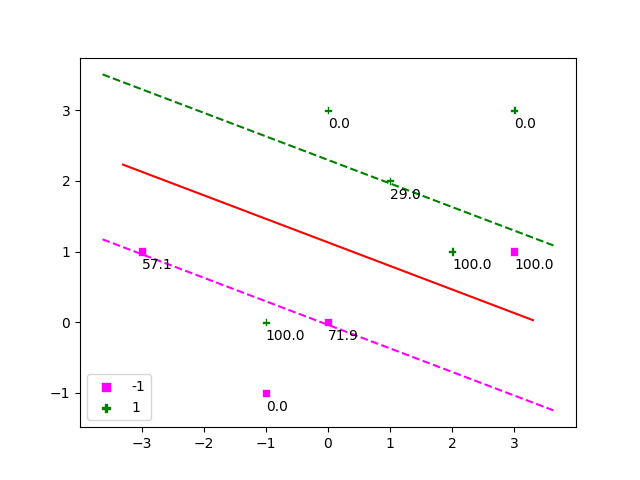
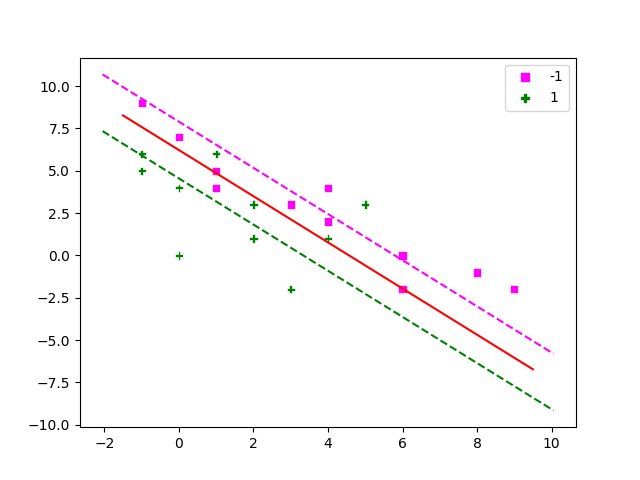
Added validation for linear svm

diff --git a/svm_from_scratch.py b/svm_from_scratch.py
@@ -138,15 +138,10 @@ class MySVM:
         N = len(labels)
         return (labels == predictions).sum() / N * 100
 
-    def plot_x(self, x, labels, C=0):
+    def plot_x(self, x, labels):
         sns.scatterplot(x[:, 0], x[:, 1], style=labels,
                         hue=labels, markers=['s', 'P'],
                         palette=['magenta', 'green'])
-        if len(self.alpha) > 0:
-            alpha_str = np.char.mod('%.1f', np.round(self.alpha, 1))
-            ind_sv = np.where(self.alpha > self.ZERO)[0]
-            for i in ind_sv:
-                plt.gca().text(x[i, 0], x[i, 1] - .25, alpha_str[i])
 
     def plot_hyperplane(self):
         w = self.w_opt
@@ -165,15 +160,40 @@ class MySVM:
         plt.plot(x_coord, yneg_coord, '--', color='magenta')
 
 
-data = np.array([[0, 3], [-1, 0], [1, 2], [2, 1], [3, 3], [0, 0], [-1, -1], [-3, 1], [3, 1]])
-labels = np.array([1, 1, 1, 1, 1, -1, -1, -1, -1])
-svm = MySVM()
-C=100
-svm.train(data, labels, C)
-predictions = svm.classify(data)
-print("Accuracy ",svm.accuracy(predictions, labels))
+data_train = np.array([[2, 1], [1, 4], [4, 1], [2, 3], [6, -2], [0, 0], [3, -2], [-1, 5], [-1, 6], [0, 4], [4, 2], [6, 0], [8, -1], [9, -2], [3, 3], [1, 5], [1, 6], [4, 4], [5, 3], [-1, 9], [0, 7]])
+labels_train = np.array([1, -1, 1, 1, -1, 1, 1, 1, 1, 1, -1, -1, -1, -1, -1, -1, 1, -1, 1, -1, -1])
 
-svm.plot_x(data, labels, C)
+data_val = np.array([[2, 4], [0, 5], [5, -1], [-1, 7], [-2, 9], [4, 0], [8, -2], [3, 5]])
+labels_val = np.array([-1, 1, 1, 1, -1, 1, -1, -1])
+
+data_test = np.array([[-2, 7], [-1, 4], [-3, 9], [7, -4], [4, -1], [3, 2], [1, 3], [1, 8], [2, 5], [3, 6], [7, -2], [8, -3], [-2, 10], [0, 10], [2, 10]])
+labels_test = np.array([1, 1, 1, 1, 1, 1, 1, -1, -1, -1, -1, -1, -1, -1, -1])
+
+svm = MySVM()
+# regularization choices for c
+c_values = [0.0001, 0.001, 0.1, 100, 1000, 10000]
+w_best, b_best = None, None
+val_accuracy_best = -1
+for c in c_values:
+    svm.train(data_train, labels_train, c)
+    predictions = svm.classify(data_val)
+    val_accuracy = svm.accuracy(predictions, labels_val)
+    if val_accuracy > val_accuracy_best:
+        val_accuracy_best = val_accuracy
+        w_best = svm.w_opt
+        b_best = svm.b_opt
+
+    print("Validation Accuracy, C value ", (val_accuracy, c))
+
+svm.w_opt = w_best
+svm.b_opt = b_best
+
+svm.plot_x(data_train, labels_train)
 svm.plot_hyperplane()
 svm.plot_margin()
 plt.savefig("linear-svm-plot.png")
+
+predictions = svm.classify(data_test)
+print("Test Accuracy ", svm.accuracy(predictions, labels_test))
+
+
